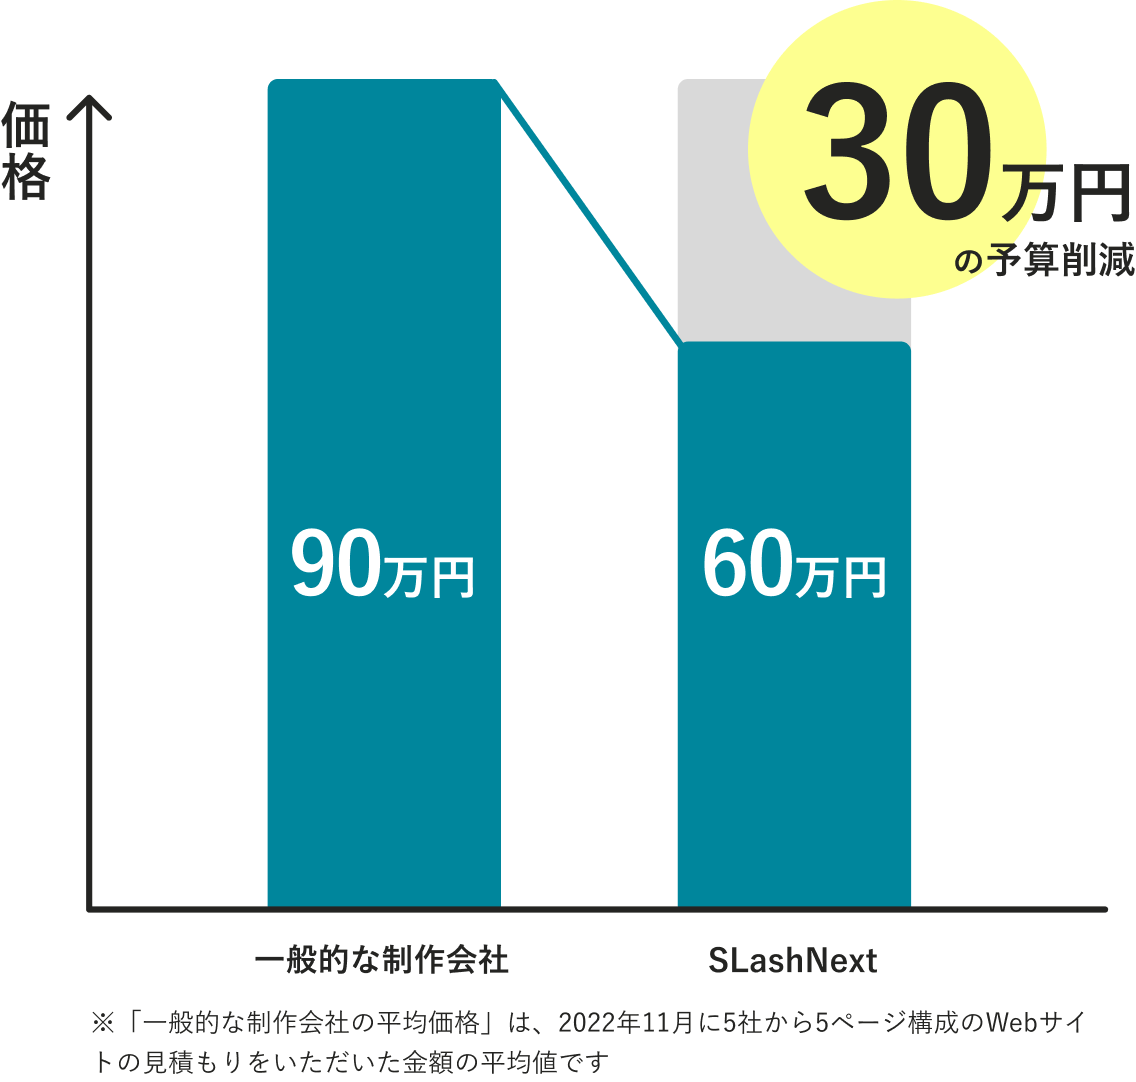
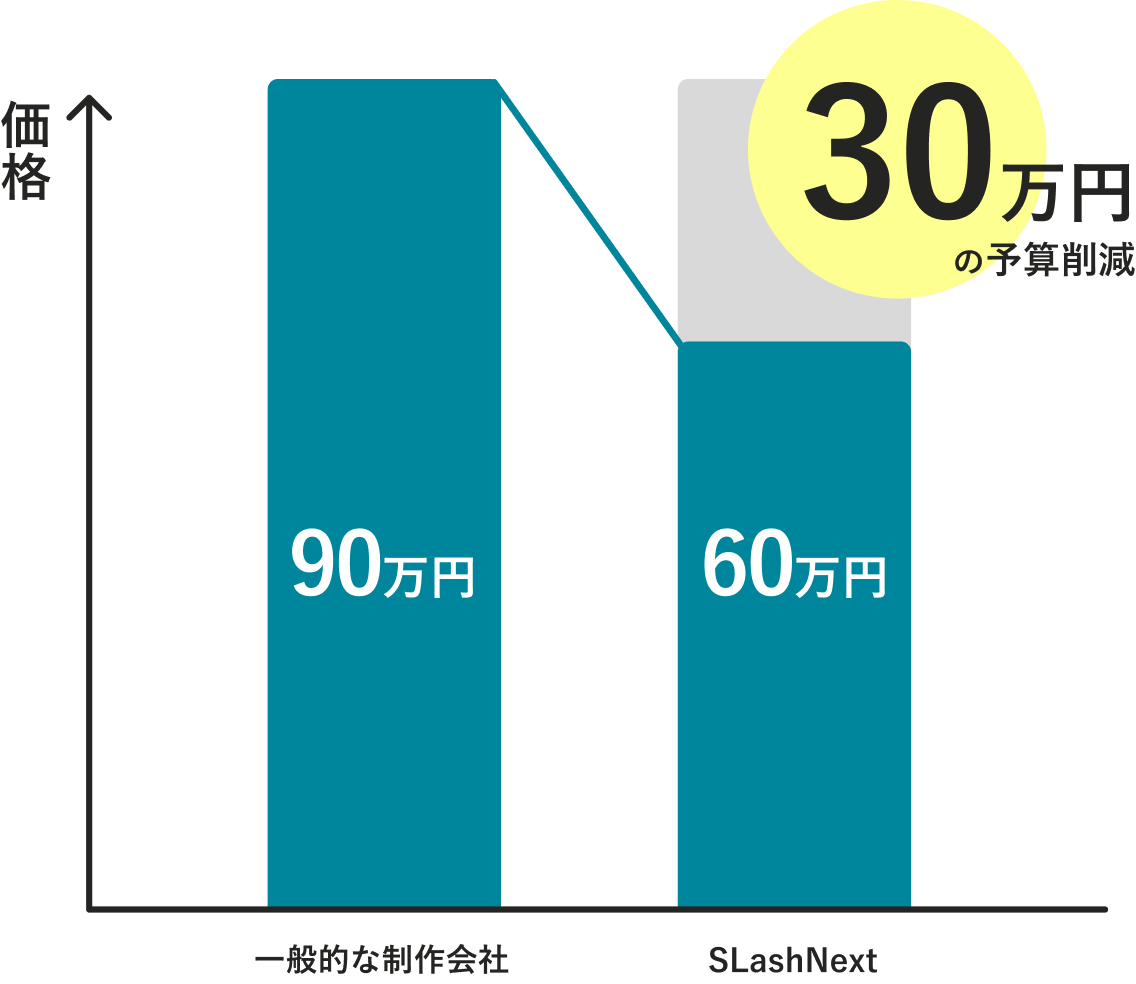
価格の違い画像下部の注意書き

diff --git a/css/style.css b/css/style.css
@@ -634,6 +634,9 @@ Layout
   padding: 24px 16px 16px;
   margin-right: 16px;
 }
+.s-difference .l-L07 .b-differenceDiagram__subText {
+  margin: 8px 8px 0;
+}
 .s-difference .l-L08 .b-difference__subText {
   padding: 32px 16px;
 }
@@ -675,6 +678,9 @@ Layout
   }
   .s-difference .l-L07 {
     padding: 32px;
+  }
+  .s-difference .l-L07 .b-differenceDiagram__subText {
+    margin: 8px 16px 8px;
   }
   .s-difference .l-L08 .b-difference__subText {
     padding: 48px 24px;
@@ -1635,9 +1641,6 @@ Block
   }
   .b-difference__subText {
     font-size: 1.125rem;
-  }
-  .b-differenceDiagram__subText {
-    font-size: 0.8125rem;
   }
   /*
     reason

diff --git a/index.html b/index.html
@@ -373,6 +373,7 @@
                 <div class="l-L07">
                   <div class="b-boxFlame__shift b-boxFlame__shift--blue">
                     <img class="b-image" src="img/difference.png" alt="" />
+                    <p class="b-differenceDiagram__subText">※「一般的な制作会社の平均価格」は、2022年11月に5社から5ページ構成のWebサイトの見積もりをいただいた金額の平均値です</p>
                   </div>
                 </div>
                 <div class="l-L08">

diff --git a/scss/02_layouts/_l-main.scss b/scss/02_layouts/_l-main.scss
@@ -336,6 +336,9 @@
       padding: 24px 16px 16px;
       margin-right: 16px;
     }
+    & .b-differenceDiagram__subText {
+      margin: 8px 8px 0;
+    }
   }
   & .l-L08 {
     & .b-difference__subText {
@@ -389,6 +392,9 @@
     }
     & .l-L07 {
       padding: 32px;
+      & .b-differenceDiagram__subText {
+        margin: 8px 16px 8px;
+      }
     }
     & .l-L08 {
       & .b-difference__subText {

diff --git a/scss/04_blocks/_b-text.scss b/scss/04_blocks/_b-text.scss
@@ -420,11 +420,7 @@
       @include font-size(18);
     }
   }
-  .b-differenceDiagram {
-    &__subText {
-      @include font-size(13);
-    }
-  }
+  
 
   /*
   reason
